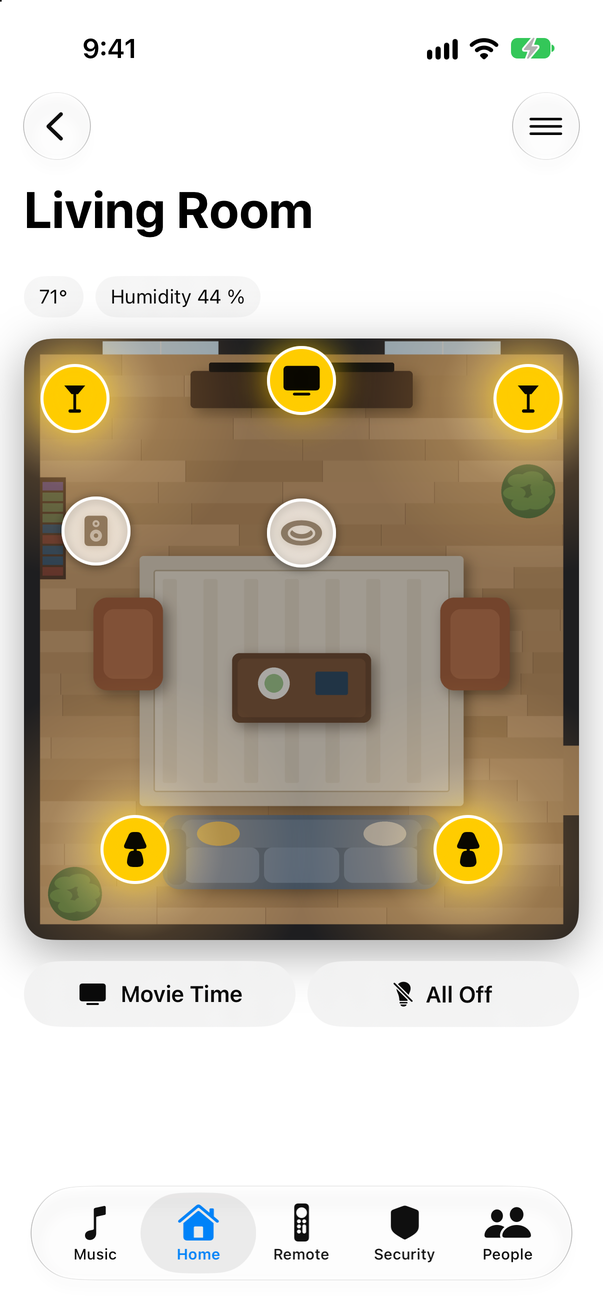
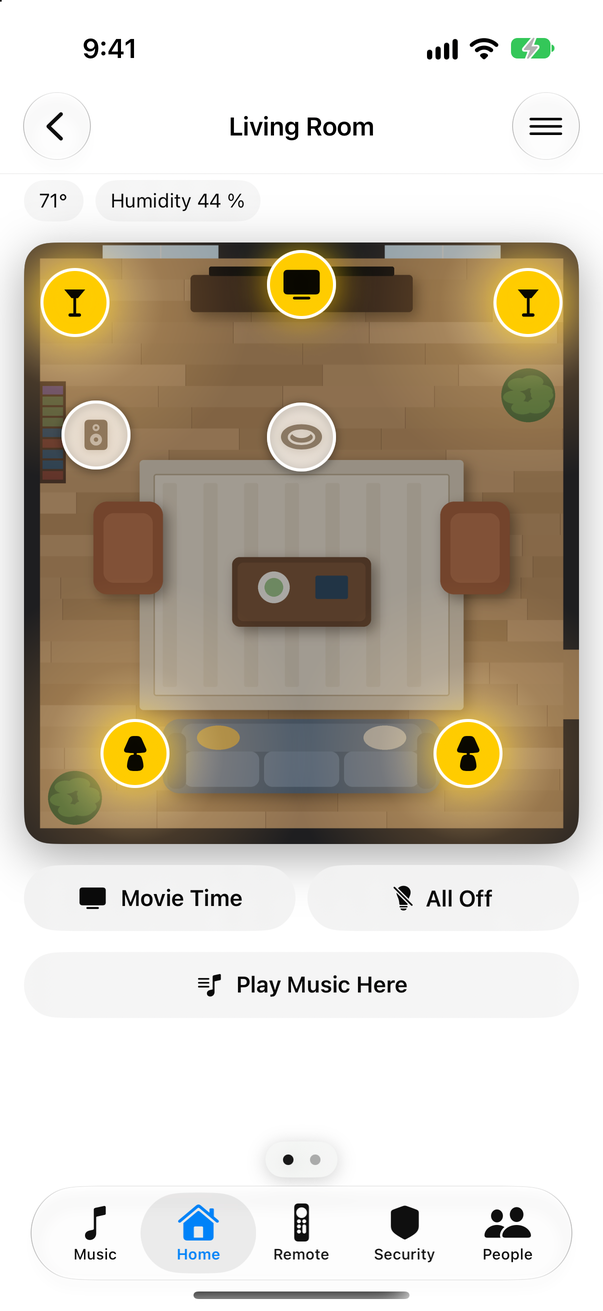
Swipe between rooms, with page dots (#17)
A room page is now a pager over all the rooms, in their order on Home:
swipe left or right for the next or previous room, with dots above the
tab bar (tap one, or VoiceOver adjust). Each room still scrolls on its
own; a horizontal scroller inside a room (a remote's panels, next) wins
where it is, and the sensor chips only claim a swipe when they overflow.
The title and menu follow the page; Back goes Home. A link, Shortcut or
Siri "open <room>" while a room is open turns the pager to it.

The demo gains a Family Room so the dots show in the screenshots.

diff --git a/Hassonic/RoomPager.swift b/Hassonic/RoomPager.swift
@@ -1,0 +1,131 @@
+import SwiftUI
+
+/// The room pages, side by side: swipe left or right for the next or
+/// previous room, in the order their tiles are on Home, with dots at the
+/// bottom for where you are.
+///
+/// Each room still scrolls up and down on its own. A drag that something
+/// inside the room claims stays with it: a slider, or a horizontal scroller
+/// or pager of its own (a remote's panels) wins over the room swipe where
+/// it is, because the innermost scroll view gets a drag first. A scroller
+/// that only wants the drag when it has something to scroll should say so
+/// with `.scrollBounceBehavior(.basedOnSize)`, as the sensor chips do, so a
+/// swipe across it still changes rooms when it all fits.
+struct RoomPager: View {
+    let rooms: [DashboardPageConfiguration]
+    /// The room whose tile, or link, opened the pager.
+    let enteredRoomID: String
+
+    @EnvironmentObject private var router: AppRouter
+    /// The page the scroll view is on. Mirrored to `router.visibleRoomID`,
+    /// so the title follows a swipe and a link can turn the page.
+    @State private var scrolledID: String?
+
+    /// How much the bottom of each room's scroll leaves clear for the dots.
+    static let dotsClearance: CGFloat = 40
+
+    init(rooms: [DashboardPageConfiguration], enteredRoomID: String) {
+        self.rooms = rooms
+        self.enteredRoomID = enteredRoomID
+        _scrolledID = State(initialValue: enteredRoomID)
+    }
+
+    private var current: DashboardPageConfiguration? {
+        let id = scrolledID ?? enteredRoomID
+        return rooms.first { $0.id == id } ?? rooms.first
+    }
+
+    var body: some View {
+        ScrollView(.horizontal) {
+            LazyHStack(spacing: 0) {
+                ForEach(rooms) { room in
+                    DashboardPageView(page: room, isInRoomPager: true)
+                        .containerRelativeFrame(.horizontal)
+                }
+            }
+            .scrollTargetLayout()
+        }
+        .scrollTargetBehavior(.paging)
+        .scrollIndicators(.hidden)
+        .scrollPosition(id: $scrolledID)
+        // One room: nothing to page to, so no rubber band either.
+        .scrollBounceBehavior(.basedOnSize, axes: .horizontal)
+        .overlay(alignment: .bottom) {
+            if rooms.count > 1 {
+                RoomPageDots(rooms: rooms, selection: $scrolledID)
+                    .padding(.bottom, 6)
+            }
+        }
+        .navigationTitle(current?.title ?? "")
+        // Inline: a large title collapses by following one scroll view, and
+        // here each room has its own, inside the pager's, so it never would.
+        .navigationBarTitleDisplayMode(.inline)
+        .toolbar {
+            if let current {
+                ToolbarItem(placement: .topBarTrailing) {
+                    AppMenuButton(page: AppPage(id: current.id, title: current.title, systemIcon: current.systemIcon))
+                }
+            }
+        }
+        .onChange(of: scrolledID) { _, id in
+            if let id, id != router.visibleRoomID { router.visibleRoomID = id }
+        }
+        .onChange(of: router.visibleRoomID) { _, id in
+            // A link or Shortcut for another room while this one's open.
+            guard let id, id != scrolledID, rooms.contains(where: { $0.id == id }) else { return }
+            withAnimation(.snappy) { scrolledID = id }
+        }
+        .onAppear {
+            if let id = router.visibleRoomID, id != scrolledID, rooms.contains(where: { $0.id == id }) {
+                scrolledID = id
+            }
+        }
+    }
+}
+
+/// A dot per room, the current one filled, on a pill that reads over a
+/// room's picture in light or dark. Tap a dot to go to that room;
+/// VoiceOver swipes up or down for the next or previous one.
+struct RoomPageDots: View {
+    let rooms: [DashboardPageConfiguration]
+    @Binding var selection: String?
+
+    private var index: Int {
+        rooms.firstIndex { $0.id == selection } ?? 0
+    }
+
+    var body: some View {
+        HStack(spacing: 0) {
+            ForEach(Array(rooms.enumerated()), id: \.element.id) { offset, room in
+                let isCurrent = offset == index
+                Circle()
+                    .fill(Color.primary.opacity(isCurrent ? 0.9 : 0.3))
+                    .frame(width: 7, height: 7)
+                    .frame(width: 18, height: 24)
+                    .contentShape(Rectangle())
+                    .onTapGesture { turn(to: offset) }
+            }
+        }
+        .padding(.horizontal, 6)
+        .background(.regularMaterial, in: Capsule())
+        .shadow(color: .black.opacity(0.18), radius: 6, y: 2)
+        .animation(.snappy, value: index)
+        .sensoryFeedback(.selection, trigger: index)
+        .accessibilityElement()
+        .accessibilityLabel("Room")
+        .accessibilityValue("\(rooms[index].title), \(index + 1) of \(rooms.count)")
+        .accessibilityAdjustableAction { direction in
+            switch direction {
+            case .increment: turn(to: index + 1)
+            case .decrement: turn(to: index - 1)
+            @unknown default: break
+            }
+        }
+        .accessibilityIdentifier("room-page-dots")
+    }
+
+    private func turn(to offset: Int) {
+        guard rooms.indices.contains(offset) else { return }
+        withAnimation(.snappy) { selection = rooms[offset].id }
+    }
+}

diff --git a/HassonicTests/AppRouterTests.swift b/HassonicTests/AppRouterTests.swift
@@ -106,6 +106,66 @@ final class AppRouterTests: XCTestCase {
         XCTAssertEqual(router.roomPath, [])
     }
 
+    private func roomsSetUp() -> AppRouter {
+        let router = AppRouter()
+        let home = DashboardPageConfiguration(id: "home", title: "Home", systemIcon: "house", sections: [])
+        let kitchen = DashboardPageConfiguration(id: "kitchen", title: "Kitchen", systemIcon: "oven", sections: [], isRoom: true)
+        let remote = DashboardPageConfiguration(id: "remote", title: "Remote", systemIcon: "tv", sections: [])
+        let den = DashboardPageConfiguration(id: "den", title: "Den", systemIcon: "sofa", sections: [], isRoom: true)
+        let office = DashboardPageConfiguration(id: "office", title: "Office", systemIcon: "desktopcomputer", sections: [], isRoom: true)
+        router.setDashboardPages([home, kitchen, remote, den, office])
+        return router
+    }
+
+    /// Swiping goes through the rooms in the order their tiles are on Home.
+    func testRoomsSwipeInTheirOrderOnHome() {
+        XCTAssertEqual(roomsSetUp().roomIDs, ["kitchen", "den", "office"])
+    }
+
+    func testOpeningARoomShowsIt() {
+        let router = roomsSetUp()
+        router.openRoom("den")
+        XCTAssertEqual(router.roomPath, ["den"])
+        XCTAssertEqual(router.visibleRoomID, "den")
+    }
+
+    /// A link for another room while one's open turns the pager to it,
+    /// rather than pushing a second room on top, so Back still goes Home.
+    func testARoomLinkWhileInARoomTurnsThePage() throws {
+        let router = roomsSetUp()
+        router.openRoom("kitchen")
+        router.visibleRoomID = "den"  // swiped
+        router.navigate(to: .tab(.dashboard("remote")))
+
+        router.handle(url: try XCTUnwrap(URL(string: "hassonic://office")))
+
+        XCTAssertEqual(router.selectedTab, .dashboard("home"))
+        XCTAssertEqual(router.roomPath, ["kitchen"])
+        XCTAssertEqual(router.visibleRoomID, "office")
+    }
+
+    /// Back to Home and into another tile: that room, not the last one swiped to.
+    func testGoingBackAndOpeningAnotherTileShowsThatRoom() {
+        let router = roomsSetUp()
+        router.openRoom("kitchen")
+        router.visibleRoomID = "office"
+        router.roomPath = []
+        XCTAssertNil(router.visibleRoomID)
+
+        router.roomPath = ["den"]  // the tile's NavigationLink
+        XCTAssertEqual(router.visibleRoomID, "den")
+    }
+
+    func testASwipedToRoomThatGoesAwayFallsBackToTheOneOpened() {
+        let router = roomsSetUp()
+        router.openRoom("kitchen")
+        router.visibleRoomID = "office"
+        let home = DashboardPageConfiguration(id: "home", title: "Home", systemIcon: "house", sections: [])
+        let kitchen = DashboardPageConfiguration(id: "kitchen", title: "Kitchen", systemIcon: "oven", sections: [], isRoom: true)
+        router.setDashboardPages([home, kitchen])
+        XCTAssertEqual(router.visibleRoomID, "kitchen")
+    }
+
     func testRemovingSelectedDashboardPageSelectsFirstRemainingPage() {
         let router = AppRouter()
         let home = DashboardPageConfiguration(id: "home", title: "Home", systemIcon: "house", sections: [])

diff --git a/Hassonic/AppRouter.swift b/Hassonic/AppRouter.swift
@@ -37,9 +37,22 @@ final class AppRouter: ObservableObject {
     @Published var presentedSheet: AppSheet?
     @Published private(set) var assistantStartsRecording = false
     /// The rooms pushed on the first page, which is where their tiles are.
-    @Published var roomPath: [String] = []
+    /// Only the room you came in on: swiping to the next one pages within
+    /// it (`visibleRoomID`) rather than pushing, so Back always goes Home.
+    @Published var roomPath: [String] = [] {
+        didSet {
+            guard roomPath != oldValue else { return }
+            visibleRoomID = roomPath.last
+        }
+    }
+    /// The room on screen in the room pager, which may not be the one in
+    /// `roomPath` once you've swiped.
+    @Published var visibleRoomID: String?
     private var dashboardPageIDs: Set<String> = ["home", "security"]
-    private var roomPageIDs: Set<String> = []
+    /// The rooms in the order their tiles are on Home, which is the order
+    /// you swipe through them.
+    private(set) var roomIDs: [String] = []
+    private var roomPageIDs: Set<String> { Set(roomIDs) }
     /// The first tab, which carries the room tiles.
     private var roomsHostPageID: String?
     private var assistantEnabled = false
@@ -76,9 +89,13 @@ final class AppRouter: ObservableObject {
 
     func setDashboardPages(_ pages: [DashboardPageConfiguration]) {
         let tabs = pages.filter { !$0.isRoom }
-        roomPageIDs = Set(pages.filter(\.isRoom).map(\.id))
+        roomIDs = pages.filter(\.isRoom).map(\.id)
         roomsHostPageID = tabs.first?.id
-        roomPath.removeAll { !roomPageIDs.contains($0) }
+        let rooms = roomPageIDs
+        roomPath.removeAll { !rooms.contains($0) }
+        if let visibleRoomID, !rooms.contains(visibleRoomID) {
+            self.visibleRoomID = roomPath.last
+        }
         dashboardPageIDs = Set(tabs.map(\.id))
         if case .dashboard(let selectedPageID) = selectedTab,
            !dashboardPageIDs.contains(selectedPageID) {
@@ -86,11 +103,17 @@ final class AppRouter: ObservableObject {
         }
     }
 
-    /// Opens a room: the first tab, with the room pushed on it.
+    /// Opens a room: the first tab, with the room pushed on it. If a room
+    /// is already open, the pager turns to this one instead of pushing
+    /// another on top.
     func openRoom(_ roomID: String) {
         guard roomPageIDs.contains(roomID), let roomsHostPageID else { return }
         selectedTab = .dashboard(roomsHostPageID)
-        roomPath = [roomID]
+        if roomPath.isEmpty {
+            roomPath = [roomID]
+        } else {
+            visibleRoomID = roomID
+        }
     }
 
     /// The tab last picked, if it still exists; otherwise the first page.

diff --git a/Hassonic/DashboardView.swift b/Hassonic/DashboardView.swift
@@ -7,14 +7,19 @@ struct DashboardPageView: View {
     var isInMoreTab = false
     /// The room pages, shown as tiles at the top of the first page.
     var rooms: [DashboardPageConfiguration] = []
-    /// Pushed from a room tile: the page above supplies the navigation bar.
-    var isPushed = false
+    /// One page of the room pager, which owns the title, the toolbar and
+    /// the space for its dots at the bottom.
+    var isInRoomPager = false
 
     @EnvironmentObject private var configurationLoader: AppConfigurationLoader
     @EnvironmentObject private var router: AppRouter
 
     var body: some View {
-        if isInMoreTab || isPushed {
+        if isInRoomPager {
+            scrollContent
+                // Room for the pager's dots above the tab bar.
+                .contentMargins(.bottom, RoomPager.dotsClearance, for: .scrollContent)
+        } else if isInMoreTab {
             content
         } else if !rooms.isEmpty {
             // The router owns the path, so a link can open a room.
@@ -47,7 +52,7 @@ struct DashboardPageView: View {
         }
     }
 
-    private var content: some View {
+    private var scrollContent: some View {
         ScrollView {
             if fitsScreen {
                 // Still in a scroll view, for pull-to-refresh; it never has
@@ -67,11 +72,15 @@ struct DashboardPageView: View {
             }
         }
         .reloadsConfigurationOnPull()
+    }
+
+    private var content: some View {
+        scrollContent
         .navigationTitle(page.title)
         .navigationBarTitleDisplayMode(page.isRoom ? .large : .inline)
         .toolbar {
-            // Under More, or pushed from a room tile, the leading spot is the back button.
-            ToolbarItem(placement: isInMoreTab || isPushed ? .topBarTrailing : .topBarLeading) {
+            // Under More, the leading spot is the back button.
+            ToolbarItem(placement: isInMoreTab ? .topBarTrailing : .topBarLeading) {
                 AppMenuButton(page: AppPage(id: page.id, title: page.title, systemIcon: page.systemIcon))
             }
             // A remote is what you want back in a hurry, mid-show.
@@ -82,8 +91,8 @@ struct DashboardPageView: View {
             }
         }
         .navigationDestination(for: String.self) { roomID in
-            if let room = rooms.first(where: { $0.id == roomID }) {
-                DashboardPageView(page: room, isPushed: true)
+            if rooms.contains(where: { $0.id == roomID }) {
+                RoomPager(rooms: rooms, enteredRoomID: roomID)
             }
         }
     }

diff --git a/Hassonic/RoomParts.swift b/Hassonic/RoomParts.swift
@@ -56,6 +56,9 @@ struct RoomStatusChips: View {
                 }
                 .padding(.horizontal)
             }
+            // When they all fit there's nothing to scroll, so a swipe across
+            // them goes to the next room instead.
+            .scrollBounceBehavior(.basedOnSize, axes: .horizontal)
         }
     }
 }

diff --git a/scripts/screenshots.py b/scripts/screenshots.py
@@ -44,6 +44,7 @@ PARK = (47.6806, -122.3290)
 SCREENS = [
     ("home", "hassonic://home", {}),
     ("room", "hassonic://living_room", {}),
+    ("room-next", "hassonic://family_room", {}),
     ("music", "hassonic://music", {}),
     ("remote", "hassonic://remote", {}),
     ("security", "hassonic://security", {}),
@@ -105,6 +106,10 @@ def entities(now: datetime, album_art: str) -> list:
             "friendly_name": "Living Room TV", "source": "TV/HDMI", "source_list": ["TV/HDMI", "Netflix", "YouTube"]}),
         state("remote.living_room_tv", "on", {"friendly_name": "Living Room TV"}),
         state("remote.cable_box", "on", {"friendly_name": "Cable Box"}),
+        state("media_player.family_room_tv", "on", {
+            "friendly_name": "Family Room TV", "source": "TV/HDMI", "source_list": ["TV/HDMI", "Netflix", "YouTube"]}),
+        state("remote.family_room_tv", "on", {"friendly_name": "Family Room TV"}),
+        state("remote.family_room_box", "on", {"friendly_name": "Family Room Box"}),
         state("media_player.spotify_alex", "playing", {
             "friendly_name": "Spotify Alex", "source": "Kitchen",
             "source_list": ["Kitchen", "Living Room", "Office", "Patio", "Downstairs"],

diff --git a/README.md b/README.md
@@ -50,7 +50,7 @@
 |---|---|
 | <img src="docs/images/music.png" width="220" alt="Music"> | **Music.** What's playing, your favorites, and every speaker's volume, for each streaming account in the house. Pick which speaker or group plays; a group's volume moves all its speakers together. While music plays, a **Live Activity** on the Lock Screen and in the Dynamic Island shows the zone and lets you switch speakers and change the volume without opening the app. |
 | <img src="docs/images/home.png" width="220" alt="Home"> | **Pages you lay out.** Each tab is a page from your config: lights, covers, thermostats, an alarm panel, TV remotes, people. Rooms show as tiles at the top of the first page. |
-| <img src="docs/images/room.png" width="220" alt="A room"> | **Rooms.** A picture of the room with a button on each device, where it really is. Tap to toggle a light, fan or speaker; hold for brightness, speed or volume. Lights that are on glow on the floor. An oven or fridge shows its temperature on the picture, and a tap opens its modes and setpoint. Chips above show the room's sensors; buttons below set several devices at once. |
+| <img src="docs/images/room.png" width="220" alt="A room"> | **Rooms.** A picture of the room with a button on each device, where it really is. Tap to toggle a light, fan or speaker; hold for brightness, speed or volume. Lights that are on glow on the floor. An oven or fridge shows its temperature on the picture, and a tap opens its modes and setpoint. Chips above show the room's sensors; buttons below set several devices at once. Swipe left or right for the next room. |
 | <img src="docs/images/remote.png" width="220" alt="Remote"> | **TV remote.** A TV and the box plugged into it, each with its own panel. Keys grey out while the TV is off, and the box's panel dims while the TV is showing one of its own apps. |
 | <img src="docs/images/people.png" width="220" alt="People"> | **People.** Everyone in the household on one map, with where they are, how far from home and since when. |
 | <img src="docs/images/history.png" width="220" alt="A person's history"> | **History.** Tap someone to see their day: the path they took on a map, and each place they stayed and for how long. Go back as many days as Home Assistant keeps. |
